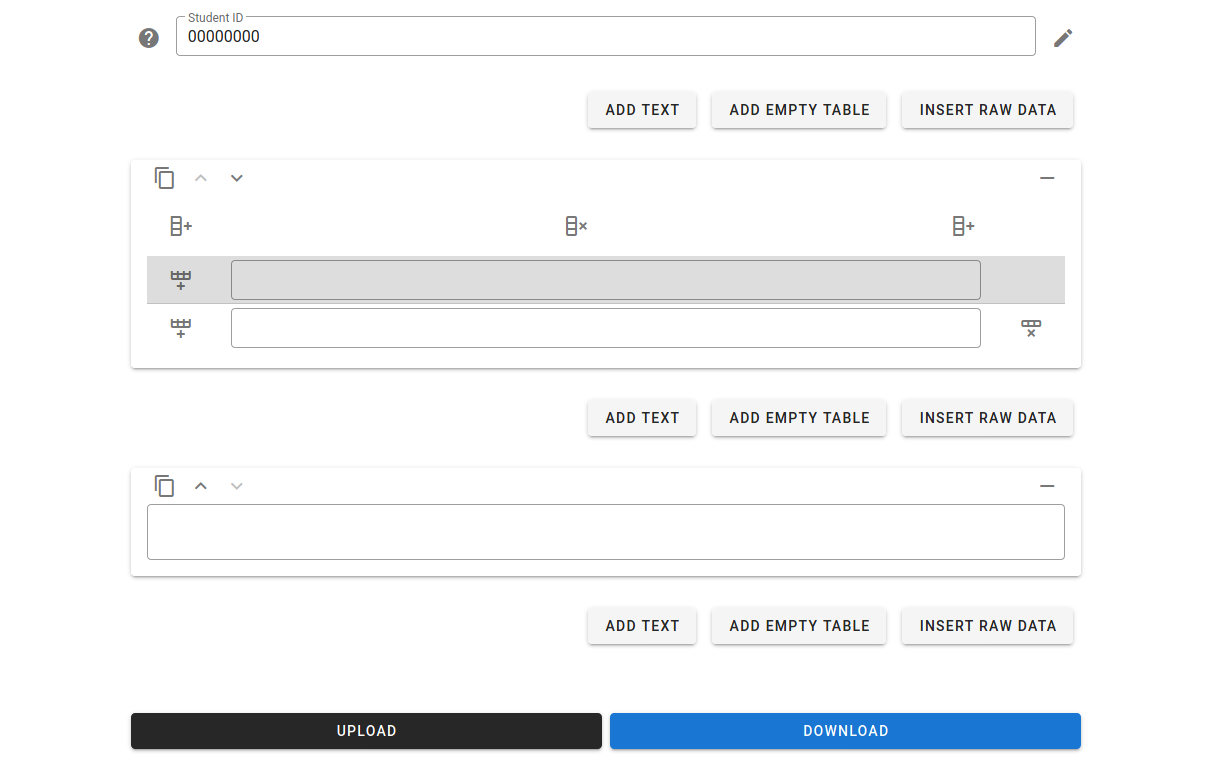
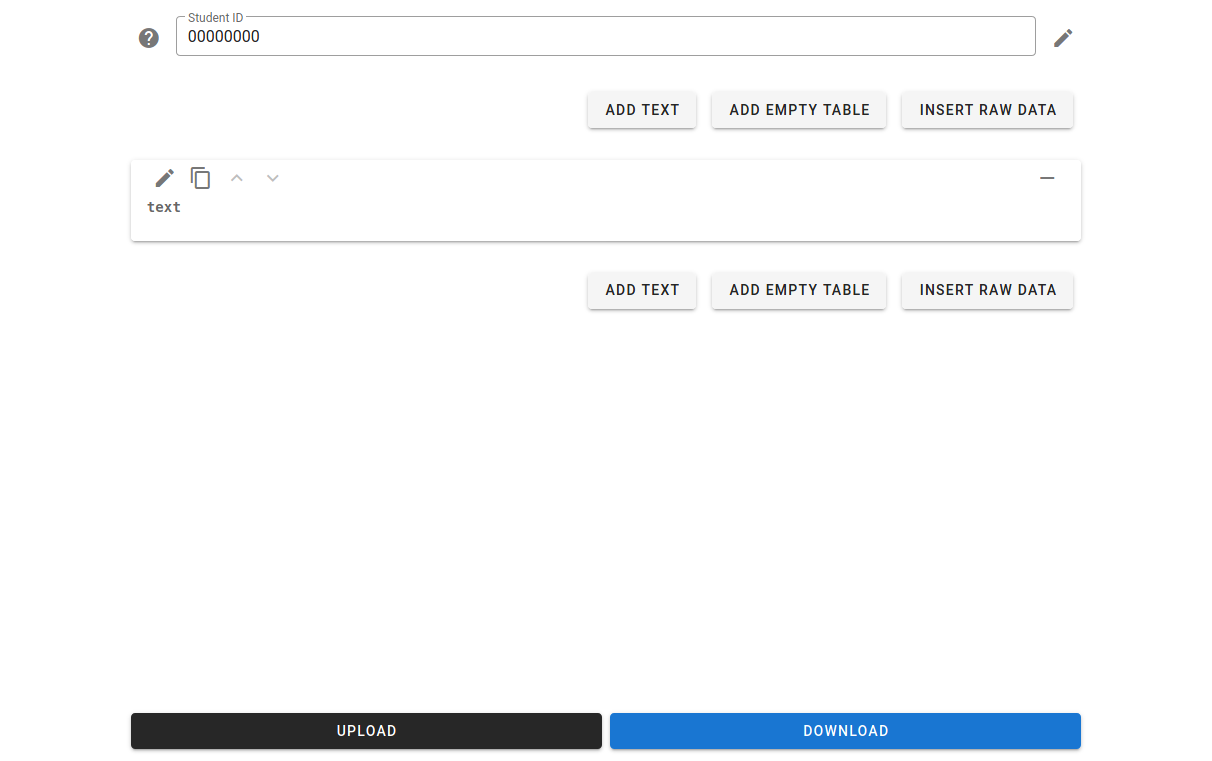
update machine learning platform

diff --git a/machine-learning/index.html b/machine-learning/index.html
@@ -1,1 +1,1 @@
-<!DOCTYPE html><html><head> <meta charset="utf-8"> <link href="https://fonts.googleapis.com/css?family=Roboto:100,300,400,500,700,900" rel="stylesheet"> <link href="https://cdn.jsdelivr.net/npm/@mdi/font@5.x/css/materialdesignicons.min.css" rel="stylesheet"> <link href="https://cdn.jsdelivr.net/npm/vuetify@2.x/dist/vuetify.min.css" rel="stylesheet"> <meta name="viewport" content="width=device-width, initial-scale=1, maximum-scale=1, user-scalable=no, minimal-ui"> <title>Machine learning</title></head><body> <div id="app"> <v-app> <v-main> <v-container fluid style="width: 100vw; height: 100vh" class="d-flex flex-column align-center"> <v-sheet width="80%" height="100%" class="d-flex flex-column"> <v-row class="flex-grow-0" no-gutters> <v-col> <v-text-field label="Student ID" v-model="studentId" readonly outlined hide-details flat dense class="align-center"> <template v-slot:append-outer> <v-btn icon @click="studentId_overlay=true" title="edit settings"><v-icon>mdi-pencil</v-icon></v-btn> </template> <template v-slot:prepend> <v-btn icon href="./help" target="_blank" title="documentation"><v-icon>mdi-help-circle</v-icon></v-btn> </template> </v-text-field> </v-col> </v-row> <v-row class="" style="overflow:auto"> <v-col> <template v-for="d,i in data"> <v-row> <v-col class="text-end"> <v-btn class="ma-2" v-for="(item, index) in cell_types" v-if="item.show" :key="`${item.type}-${index}-btn`" @click="insert_new_cell(i,item.type)">{{item.label}}</v-btn> </v-col> </v-row> <v-row :key="i"><v-col> <v-card> <v-card-title class="subtitle-1 py-0"> <v-btn icon title="copy this cell" @click="copied_cell=JSON.parse(JSON.stringify(d))"><v-icon>mdi-content-copy</v-icon></v-btn> <v-btn icon title="move cell up" :disabled="i==0" @click="data.splice(i-1,0,data.splice(i,1)[0])"><v-icon>mdi-chevron-up</v-icon></v-btn> <v-btn icon title="move cell down" :disabled="i==data.length - 1" @click="data.splice(i+1,0,data.splice(i,1)[0])"><v-icon>mdi-chevron-down</v-icon></v-btn> <v-spacer></v-spacer> <v-btn icon title="remove this cell" @click="data.splice(i,1)"><v-icon>mdi-minus</v-icon></v-btn> </v-card-title> <v-card-text> <template v-if="d.type=='text'"> <v-textarea v-model="data[i].content" auto-grow outlined rows="1" hide-details></v-textarea> </template> <template v-if="d.type=='table'"> <v-simple-table> <template v-slot:default> <thead> <tr> <th width="1%"> <v-btn icon title="add column to the right" @click="add_new_col(i,0)"><v-icon>mdi-table-column-plus-after</v-icon></v-btn> </th> <th v-for="newcol,c in d.content.headers.length" class="text-center"> <v-row> <v-col><v-btn icon title="remove column" @click="remove_col(i,c)"><v-icon>mdi-table-column-remove</v-icon></v-btn></v-col> <v-col cols="auto"><v-btn icon title="add column to the right" @click="add_new_col(i,c+1)"><v-icon>mdi-table-column-plus-after</v-icon></v-btn></v-col> </v-row> </th> <th width="1%"></th> </tr><tr style="background-color: #ddd;"> <th><v-btn icon title="add row after" @click="add_new_row(i,0)"><v-icon>mdi-table-row-plus-after</v-icon></v-btn></th> <th v-for="colhead,h in d.content.headers"> <v-text-field v-model="data[i].content.headers[h]" hide-details outlined dense></v-text-field> </th> <th></th> </tr></thead> <tbody> <tr v-for="row,r in d.content.content"> <td><v-btn icon title="add row after" @click="add_new_row(i,r+1)"><v-icon>mdi-table-row-plus-after</v-icon></v-btn></td><td v-for="cell,c in row"> <v-text-field v-model="data[i].content.content[r][c]" hide-details outlined dense></v-text-field> </td><td><v-btn icon title="remove row" @click="remove_row(i,r)"><v-icon>mdi-table-row-remove</v-icon></v-btn></td></tr></tbody> </template> </v-simple-table> </template> </v-card-text> </v-card> </v-col></v-row> </template> <v-row> <v-col class="text-end"> <v-btn class="ma-2" v-for="(item, index) in cell_types" v-if="item.show" :key="`${item.type}-${index}-btn`" @click="insert_new_cell(data.length,item.type)">{{item.label}}</v-btn> </v-col> </v-row> </v-col> </v-row> <v-row class="flex-grow-0" no-gutters> <v-col class="mr-2"><v-btn block color="" @click="upload.overlay=true" dark>Upload</v-btn></v-col> <v-col><v-btn block color="primary" @click="download">Download</v-btn></v-col> </v-row> </v-sheet> <v-dialog v-model="studentId_overlay"> <v-card> <v-card-title></v-card-title> <v-card-text> <v-text-field class="mb-4" label="Student ID" v-model="studentId" outlined persistent-hint hint="Any changes to the student ID will remove all manually inserted data"></v-text-field> </v-card-text> <v-card-actions> <v-spacer></v-spacer> <v-btn color="primary" @click="studentId_overlay=false">Ok</v-btn> </v-card-actions> </v-card> </v-dialog> <v-dialog v-model="upload.overlay"> <v-card> <v-card-title></v-card-title> <v-card-text> <v-alert type="info">You only need this function if the website has crashed.</v-alert> <v-row><v-col>This function is only for uploading your previously downloaded files.</v-col></v-row> <v-file-input v-model="upload.file" label="Upload file"></v-file-input> <v-alert type="error" v-if="upload.error.length > 0">{{upload.error}}</v-alert> </v-card-text> <v-card-actions> <v-spacer></v-spacer> <v-btn color="primary" @click="upload_file">Upload</v-btn> </v-card-actions> </v-card> </v-dialog> </v-container> </v-main> </v-app> </div><script src="https://cdn.jsdelivr.net/npm/vue@2.x/dist/vue.js"></script> <script src="https://cdn.jsdelivr.net/npm/vuetify@2.x/dist/vuetify.js"></script> <script>let vm=new Vue({el: '#app', vuetify: new Vuetify(), data:{studentId: "00000000", studentId_overlay: true, data: [], default_values: [], raw_data:{type: "table", content:{headers: ['x','y'], content: [ [0,0], [0.1,0.1], [0.15,0.2], [0.2,0.1], [0.25,0.15], [0.3,0.25]]}}, copied_cell:{}, cell_types: [{label: "Add text", type: "text", show: true},{label: "Add empty table", type: "table", show: true},{label: "Insert raw data", type: "raw", show: true},{label: "Paste copied cell", type: "paste", show: false}], upload:{overlay: false, file: undefined, error: ""}}, mounted: function (){this.init_data();}, watch:{studentId: function (){console.log("Student ID updated"); this.init_data();}, copied_cell: function (newVal){if (Object.keys(newVal).length > 0){this.cell_types[this.cell_types.findIndex(x=> x.type=='paste')].show=true;}}}, computed:{sd: function (){return this.studentId;}}, methods:{init_data: function (){this.data=JSON.parse(JSON.stringify(this.default_values));}, insert_new_cell: function (i,type){console.log(i,type); let new_cell={type: type, content: null}; if (type=="text"){new_cell.content="";}else if (type=="table"){new_cell.content={headers: [""], content: [[""]]}}else if (type=="raw"){new_cell=JSON.parse(JSON.stringify(this.raw_data));}else if (type=="paste"){new_cell=JSON.parse(JSON.stringify(this.copied_cell));}this.data.splice(i, 0, new_cell);}, add_new_col: function (d,c){this.data[d].content.headers.splice(c,0,""); this.data[d].content.content.forEach(r=>{r.splice(c,0,"");});}, add_new_row: function (d,r){this.data[d].content.content.splice(r, 0, this.data[d].content.headers.map(x=> ""));}, remove_col: function (d,c){this.data[d].content.headers.splice(c,1); this.data[d].content.content.forEach(r=>{r.splice(c,1);});}, remove_row: function (d,r){this.data[d].content.content.splice(r, 1);}, download: function (){let dldata={studentId: this.studentId, data: JSON.parse(JSON.stringify(this.data))}; let j=document.createElement("a"); j.download="machinelearning.json"; j.href=URL.createObjectURL(new Blob([JSON.stringify(dldata)])); j.click();}, upload_file: function (){if (this.upload.file !==undefined){const reader=new FileReader(); reader.onload=(ev)=>{try{let fileContent=JSON.parse(ev.target.result); this.studentId=fileContent.studentId; this.$nextTick().then(()=>{this.data=fileContent.data;}).then(()=>{this.upload.overlay=false;}).catch(err=>{this.upload.error=err.message;});}catch (err){this.upload.error=err.message;}}; reader.readAsText(this.upload.file);}}}}); </script></body></html>
+<!DOCTYPE html><html><head> <meta charset="utf-8"> <link href="https://fonts.googleapis.com/css?family=Roboto:100,300,400,500,700,900" rel="stylesheet"> <link href="https://cdn.jsdelivr.net/npm/@mdi/font@5.x/css/materialdesignicons.min.css" rel="stylesheet"> <link href="https://cdn.jsdelivr.net/npm/vuetify@2.x/dist/vuetify.min.css" rel="stylesheet"> <meta name="viewport" content="width=device-width, initial-scale=1, maximum-scale=1, user-scalable=no, minimal-ui"> <title>Machine learning</title></head><body> <div id="app"> <v-app> <v-main> <v-container fluid style="width: 100vw; height: 100vh" class="d-flex flex-column align-center"> <v-sheet width="80%" height="100%" class="d-flex flex-column"> <v-row class="flex-grow-0" no-gutters> <v-col> <v-text-field label="Student ID" v-model="studentId" readonly outlined hide-details flat dense class="align-center"> <template v-slot:append-outer> <v-btn icon @click="studentId_overlay=true" title="edit settings"><v-icon>mdi-pencil</v-icon></v-btn> </template> <template v-slot:prepend> <v-btn icon href="./help" target="_blank" title="documentation"><v-icon>mdi-help-circle</v-icon></v-btn> </template> </v-text-field> </v-col> </v-row> <v-row class="" style="overflow:auto"> <v-col> <template v-for="d,i in data"> <v-row> <v-col class="text-end"> <v-btn class="ma-2" v-for="(item, index) in cell_types" v-if="item.show" :key="`${item.type}-${index}-btn`" @click="insert_new_cell(i,item.type)">{{item.label}}</v-btn> </v-col> </v-row> <v-row :key="i"><v-col> <v-card> <v-card-title class="subtitle-1 py-0"> <v-btn icon title="edit cell" @click="edit_data.index=i;edit_data.overlay=true;"><v-icon>mdi-pencil</v-icon></v-btn> <v-btn icon title="copy cell" @click="copied_cell=JSON.parse(JSON.stringify(d))"><v-icon>mdi-content-copy</v-icon></v-btn> <v-btn icon title="move cell up" :disabled="i==0" @click="data.splice(i-1,0,data.splice(i,1)[0])"><v-icon>mdi-chevron-up</v-icon></v-btn> <v-btn icon title="move cell down" :disabled="i==data.length - 1" @click="data.splice(i+1,0,data.splice(i,1)[0])"><v-icon>mdi-chevron-down</v-icon></v-btn> <v-spacer></v-spacer> <v-btn icon title="remove cell" @click="data.splice(i,1)"><v-icon>mdi-minus</v-icon></v-btn> </v-card-title> <v-card-text> <template v-if="d.type=='text'"> <pre><code v-html="data[i].content"></code></pre> </template> <template v-if="d.type=='table'"> <v-simple-table> <template v-slot:default> <thead> <tr style="background-color: #ddd;"> <th v-for="colhead,h in d.content.headers" class="text-center">{{data[i].content.headers[h]}}</th> </tr></thead> <tbody> <tr v-for="row,r in d.content.content"> <td v-for="cell,c in row" class="text-center">{{data[i].content.content[r][c]}}</td></tr></tbody> </template> </v-simple-table> </template> </v-card-text> </v-card> </v-col></v-row> </template> <v-row> <v-col class="text-end"> <v-btn class="ma-2" v-for="(item, index) in cell_types" v-if="item.show" :key="`${item.type}-${index}-btn`" @click="insert_new_cell(data.length,item.type)">{{item.label}}</v-btn> </v-col> </v-row> </v-col> </v-row> <v-row class="flex-grow-0" no-gutters> <v-col class="mr-2"><v-btn block color="" @click="upload.overlay=true" dark>Upload</v-btn></v-col> <v-col><v-btn block color="primary" @click="download">Download</v-btn></v-col> </v-row> </v-sheet> <v-dialog v-model="studentId_overlay"> <v-card> <v-card-title></v-card-title> <v-card-text> <v-text-field class="mb-4" label="Student ID" v-model="studentId" outlined persistent-hint hint="Any changes to the student ID will remove all manually inserted data"></v-text-field> </v-card-text> <v-card-actions> <v-spacer></v-spacer> <v-btn color="primary" @click="studentId_overlay=false">Ok</v-btn> </v-card-actions> </v-card> </v-dialog> <v-dialog v-model="edit_data.overlay"> <v-card v-if="edit_data.index < data.length"> <v-card-title>Edit{{data[edit_data.index].type}}cell</v-card-title> <v-card-text> <template v-if="data[edit_data.index].type=='text'"> <v-textarea v-model="data[edit_data.index].content" auto-grow outlined rows="1" hide-details style="font-family:monospace"></v-textarea> </template> <template v-if="data[edit_data.index].type=='table'"> <v-simple-table> <template v-slot:default> <thead> <tr> <th width="1%"> <v-btn icon title="add column to the right" @click="add_new_col(edit_data.index,0)"><v-icon>mdi-table-column-plus-after</v-icon></v-btn> </th> <th v-for="newcol,c in data[edit_data.index].content.headers.length" class="text-center"> <v-row> <v-col><v-btn icon title="remove column" @click="remove_col(edit_data.index,c)"><v-icon>mdi-table-column-remove</v-icon></v-btn></v-col> <v-col cols="auto"><v-btn icon title="add column to the right" @click="add_new_col(edit_data.index,c+1)"><v-icon>mdi-table-column-plus-after</v-icon></v-btn></v-col> </v-row> </th> <th width="1%"></th> </tr><tr style="background-color: #ddd;"> <th><v-btn icon title="add row after" @click="add_new_row(edit_data.index,0)"><v-icon>mdi-table-row-plus-after</v-icon></v-btn></th> <th v-for="colhead,h in data[edit_data.index].content.headers"> <v-text-field v-model="data[edit_data.index].content.headers[h]" hide-details outlined dense></v-text-field> </th> <th></th> </tr></thead> <tbody> <tr v-for="row,r in data[edit_data.index].content.content"> <td><v-btn icon title="add row after" @click="add_new_row(edit_data.index,r+1)"><v-icon>mdi-table-row-plus-after</v-icon></v-btn></td><td v-for="cell,c in row"> <v-text-field v-model="data[edit_data.index].content.content[r][c]" hide-details outlined dense></v-text-field> </td><td><v-btn icon title="remove row" @click="remove_row(edit_data.index,r)"><v-icon>mdi-table-row-remove</v-icon></v-btn></td></tr></tbody> </template> </v-simple-table> </template> </v-card-text> </v-card> </v-dialog> <v-dialog v-model="upload.overlay"> <v-card> <v-card-title></v-card-title> <v-card-text> <v-alert type="info">You only need this function if the website has crashed.</v-alert> <v-row><v-col>This function is only for uploading your previously downloaded files.</v-col></v-row> <v-file-input v-model="upload.file" label="Upload file"></v-file-input> <v-alert type="error" v-if="upload.error.length > 0">{{upload.error}}</v-alert> </v-card-text> <v-card-actions> <v-spacer></v-spacer> <v-btn color="primary" @click="upload_file">Upload</v-btn> </v-card-actions> </v-card> </v-dialog> </v-container> </v-main> </v-app> </div><script src="https://cdn.jsdelivr.net/npm/vue@2.x/dist/vue.js"></script> <script src="https://cdn.jsdelivr.net/npm/vuetify@2.x/dist/vuetify.js"></script> <style>code{background-color: transparent!important; color: inherit!important; padding: 0!important; width: 100%!important; display: inline-block!important; overflow: auto!important; white-space: pre-wrap!important; font-size: 14px!important;}</style> <script>let vm=new Vue({el: '#app', vuetify: new Vuetify(), data:{studentId: "00000000", studentId_overlay: true, data: [], default_values: [], raw_data:{type: "table", content:{headers: ['x','y'], content: [ [0,0], [0.1,0.1], [0.15,0.2], [0.2,0.1], [0.25,0.15], [0.3,0.25]]}}, copied_cell:{}, cell_types: [{label: "Add text", type: "text", show: true},{label: "Add empty table", type: "table", show: true},{label: "Insert raw data", type: "raw", show: true},{label: "Paste copied cell", type: "paste", show: false}], edit_data:{overlay: false, index: 0}, upload:{overlay: false, file: undefined, error: ""}}, mounted: function (){this.init_data();}, watch:{studentId: function (){console.log("Student ID updated"); this.init_data();}, copied_cell: function (newVal){if (Object.keys(newVal).length > 0){this.cell_types[this.cell_types.findIndex(x=> x.type=='paste')].show=true;}}}, computed:{sd: function (){return this.studentId;}}, methods:{init_data: function (){this.data=JSON.parse(JSON.stringify(this.default_values));}, insert_new_cell: function (i,type){let new_cell={type: type, content: null}; if (type=="text"){new_cell.content="";}else if (type=="table"){new_cell.content={headers: [""], content: [[""]]}}else if (type=="raw"){new_cell=JSON.parse(JSON.stringify(this.raw_data));}else if (type=="paste"){new_cell=JSON.parse(JSON.stringify(this.copied_cell));}this.data.splice(i, 0, new_cell); this.edit_data.index=i; this.edit_data.overlay=true;}, add_new_col: function (d,c){this.data[d].content.headers.splice(c,0,""); this.data[d].content.content.forEach(r=>{r.splice(c,0,"");});}, add_new_row: function (d,r){this.data[d].content.content.splice(r, 0, this.data[d].content.headers.map(x=> ""));}, remove_col: function (d,c){this.data[d].content.headers.splice(c,1); this.data[d].content.content.forEach(r=>{r.splice(c,1);});}, remove_row: function (d,r){this.data[d].content.content.splice(r, 1);}, download: function (){let dldata={studentId: this.studentId, data: JSON.parse(JSON.stringify(this.data))}; let j=document.createElement("a"); j.download="machinelearning.json"; j.href=URL.createObjectURL(new Blob([JSON.stringify(dldata)])); j.click();}, upload_file: function (){if (this.upload.file !==undefined){const reader=new FileReader(); reader.onload=(ev)=>{try{let fileContent=JSON.parse(ev.target.result); this.studentId=fileContent.studentId; this.$nextTick().then(()=>{this.data=fileContent.data;}).then(()=>{this.upload.overlay=false;}).catch(err=>{this.upload.error=err.message;});}catch (err){this.upload.error=err.message;}}; reader.readAsText(this.upload.file);}}}}); </script></body></html>

diff --git a/machine-learning/help.html b/machine-learning/help.html
@@ -74,7 +74,7 @@
                 <v-card-text>
                   <svg width="100%" :view-box.camel="viewBox">
                     <image href="./img/03.png" :width="displayImg.width" />
-                    <rect :x="convert(124)" :y="convert(151)" :width="convert(1090-124)" :height="convert(277-151)" :stroke="annotation.box.color" fill="none" :stroke-width="annotation.box.strokeWidth"/>
+                    <rect :x="convert(14)" :y="convert(305)" :width="convert(1196-14)" :height="convert(457-305)" :stroke="annotation.box.color" fill="none" :stroke-width="annotation.box.strokeWidth"/>
                     <rect x="0" y="0" :width="displayImg.width" :height="displayImg.height" fill="none" :stroke="imgFrame.color" :stroke-width="imgFrame.strokeWidth"/>
                   </svg>
                   <v-alert elevation="2" border="left" dark :color="msg.info">A text cell is used to provide textual information.</v-alert>
@@ -85,7 +85,7 @@
                 <v-card-title>Create a new empty table<v-spacer></v-spacer> <v-btn href="#menu" icon><v-icon>mdi-format-list-bulleted</v-icon></v-btn></v-card-title>
                 <v-card-text>
                   <svg width="100%" :view-box.camel="viewBox">
-                    <image href="./img/03.png" :width="displayImg.width" />
+                    <image href="./img/04.png" :width="displayImg.width" />
                     <rect :x="convert(704)" :y="convert(83)" :width="convert(894-704)" :height="convert(135-83)" :stroke="annotation.box.color" fill="none" :stroke-width="annotation.box.strokeWidth"/>
                     <rect x="0" y="0" :width="displayImg.width" :height="displayImg.height" fill="none" :stroke="imgFrame.color" :stroke-width="imgFrame.strokeWidth"/>
                   </svg>
@@ -97,8 +97,8 @@
                 <v-card-title>Table cell<v-spacer></v-spacer> <v-btn href="#menu" icon><v-icon>mdi-format-list-bulleted</v-icon></v-btn></v-card-title>
                 <v-card-text>
                   <svg width="100%" :view-box.camel="viewBox">
-                    <image href="./img/04.png" :width="displayImg.width" />
-                    <rect :x="convert(124)" :y="convert(151)" :width="convert(1090-124)" :height="convert(376-151)" :stroke="annotation.box.color" fill="none" :stroke-width="annotation.box.strokeWidth"/>
+                    <image href="./img/05.png" :width="displayImg.width" />
+                    <rect :x="convert(14)" :y="convert(256)" :width="convert(1196-14)" :height="convert(507-256)" :stroke="annotation.box.color" fill="none" :stroke-width="annotation.box.strokeWidth"/>
                     <rect x="0" y="0" :width="displayImg.width" :height="displayImg.height" fill="none" :stroke="imgFrame.color" :stroke-width="imgFrame.strokeWidth"/>
                   </svg>
                   <v-alert elevation="2" border="left" dark :color="msg.info">A table cell is used to provide tabular information.</v-alert>
@@ -114,7 +114,7 @@
                 <v-card-title>Insert the raw data<v-spacer></v-spacer> <v-btn href="#menu" icon><v-icon>mdi-format-list-bulleted</v-icon></v-btn></v-card-title>
                 <v-card-text>
                   <svg width="100%" :view-box.camel="viewBox">
-                    <image href="./img/04.png" :width="displayImg.width" />
+                    <image href="./img/06.png" :width="displayImg.width" />
                     <rect :x="convert(895)" :y="convert(83)" :width="convert(1080-895)" :height="convert(135-83)" :stroke="annotation.box.color" fill="none" :stroke-width="annotation.box.strokeWidth"/>
                     <rect x="0" y="0" :width="displayImg.width" :height="displayImg.height" fill="none" :stroke="imgFrame.color" :stroke-width="imgFrame.strokeWidth"/>
                   </svg>
@@ -127,8 +127,8 @@
                 <v-card-title>Raw data<v-spacer></v-spacer> <v-btn href="#menu" icon><v-icon>mdi-format-list-bulleted</v-icon></v-btn></v-card-title>
                 <v-card-text>
                   <svg width="100%" :view-box.camel="viewBox">
-                    <image href="./img/05.png" :width="displayImg.width" />
-                    <rect :x="convert(124)" :y="convert(151)" :width="convert(1090-124)" :height="convert(620-151)" :stroke="annotation.box.color" fill="none" :stroke-width="annotation.box.strokeWidth"/>
+                    <image href="./img/07.png" :width="displayImg.width" />
+                    <rect :x="convert(14)" :y="convert(134)" :width="convert(1196-14)" :height="convert(631-134)" :stroke="annotation.box.color" fill="none" :stroke-width="annotation.box.strokeWidth"/>
                     <rect x="0" y="0" :width="displayImg.width" :height="displayImg.height" fill="none" :stroke="imgFrame.color" :stroke-width="imgFrame.strokeWidth"/>
                   </svg>
                 </v-card-text>
@@ -138,11 +138,12 @@
                 <v-card-title>Generic cell controls<v-spacer></v-spacer> <v-btn href="#menu" icon><v-icon>mdi-format-list-bulleted</v-icon></v-btn></v-card-title>
                 <v-card-text>
                   <svg width="100%" :view-box.camel="viewBox">
-                    <image href="./img/05.png" :width="displayImg.width" />
+                    <image href="./img/08.png" :width="displayImg.width" />
                     <rect :x="convert(124)" :y="convert(151)" :width="convert(1090-124)" :height="convert(201-151)" :stroke="annotation.box.color" fill="none" :stroke-width="annotation.box.strokeWidth"/>
                     <rect x="0" y="0" :width="displayImg.width" :height="displayImg.height" fill="none" :stroke="imgFrame.color" :stroke-width="imgFrame.strokeWidth"/>
                   </svg>
                   <v-alert elevation="2" border="left" dark :color="msg.info">Controls of a cell are at the top of the cell.</v-alert>
+                  <v-alert elevation="2" border="left" colored-border :color="msg.process">Click <v-btn icon><v-icon>mdi-pencil</v-icon></v-btn> to edit a cell.</v-alert>
                   <v-alert elevation="2" border="left" colored-border :color="msg.process">Click <v-btn icon><v-icon>mdi-content-copy</v-icon></v-btn> to copy a cell.</v-alert>
                   <v-alert elevation="2" border="left" colored-border :color="msg.process">Click <v-btn icon><v-icon>mdi-chevron-up</v-icon></v-btn> to move a cell up.</v-alert>
                   <v-alert elevation="2" border="left" colored-border :color="msg.process">Click <v-btn icon><v-icon>mdi-chevron-down</v-icon></v-btn> to move a cell down.</v-alert>
@@ -154,7 +155,7 @@
                 <v-card-title>Paste the copied cell<v-spacer></v-spacer> <v-btn href="#menu" icon><v-icon>mdi-format-list-bulleted</v-icon></v-btn></v-card-title>
                 <v-card-text>
                   <svg width="100%" :view-box.camel="viewBox">
-                    <image href="./img/06.png" :width="displayImg.width" />
+                    <image href="./img/09.png" :width="displayImg.width" />
                     <rect :x="convert(882)" :y="convert(83)" :width="convert(1080-882)" :height="convert(135-83)" :stroke="annotation.box.color" fill="none" :stroke-width="annotation.box.strokeWidth"/>
                     <rect x="0" y="0" :width="displayImg.width" :height="displayImg.height" fill="none" :stroke="imgFrame.color" :stroke-width="imgFrame.strokeWidth"/>
                   </svg>
@@ -167,7 +168,7 @@
                 <v-card-title>When you are done <v-spacer></v-spacer> <v-btn href="#menu" icon><v-icon>mdi-format-list-bulleted</v-icon></v-btn></v-card-title>
                 <v-card-text>
                   <svg width="100%" :view-box.camel="viewBox">
-                    <image href="./img/06.png" :width="displayImg.width" />
+                    <image href="./img/09.png" :width="displayImg.width" />
                     <rect :x="convert(606)" :y="convert(706)" :width="convert(1088-606)" :height="convert(755-706)" :stroke="annotation.box.color" fill="none" :stroke-width="annotation.box.strokeWidth"/>
                     <rect x="0" y="0" :width="displayImg.width" :height="displayImg.height" fill="none" :stroke="imgFrame.color" :stroke-width="imgFrame.strokeWidth"/>
                   </svg>
@@ -181,7 +182,7 @@
                 <v-card-text>
                   <v-alert elevation="2" border="left" dark :color="msg.alert">If there is a risk of your computer being crashed, remember to download the file from time to time.</v-alert>
                   <svg width="100%" :view-box.camel="viewBox">
-                    <image href="./img/07.png" :width="displayImg.width" />
+                    <image href="./img/10.png" :width="displayImg.width" />
                     <rect :x="convert(126)" :y="convert(706)" :width="convert(608-126)" :height="convert(755-706)" :stroke="annotation.box.color" fill="none" :stroke-width="annotation.box.strokeWidth"/>
                     <rect :x="convert(45)" :y="convert(390)" :width="convert(1175-45)" :height="convert(442-390)" :stroke="annotation.box.color" fill="none" :stroke-width="annotation.box.strokeWidth"/>
                     <rect :x="convert(1095)" :y="convert(473)" :width="convert(1186-1095)" :height="convert(520-473)" :stroke="annotation.box.color" fill="none" :stroke-width="annotation.box.strokeWidth"/>
